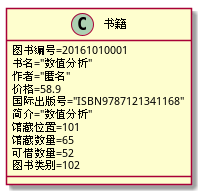
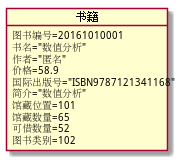
实验三

diff --git a/test3/README.md b/test3/README.md
@@ -120,7 +120,7 @@ package operation #BCEE68 {
 * 源码如下：
 ```puml
 @startuml
-class 学生<extends 人物>{
+object 学生{
     姓名="陈尘沉"
     用户名="tyh"
     密码="aaa321"
@@ -138,7 +138,7 @@ class 学生<extends 人物>{
 * 源码如下：
 ```puml
 @startuml
-class 图书管理员<extends 人物>{
+object 图书管理员{
     姓名="李二"
     用户名="lier"
     密码="aaa321"
@@ -157,7 +157,7 @@ class 图书管理员<extends 人物>{
 * 源码如下：
 ```puml
 @startuml
-class 超级管理员{
+object 超级管理员{
      ID=101
      姓名="李四"
      用户名="lisi"
@@ -176,7 +176,7 @@ class 超级管理员{
 * 源码如下：
 ```puml
 @startuml
-class 书籍{
+object 书籍{
     图书编号=20161010001
     书名="数值分析"
     作者="匿名"
@@ -198,7 +198,7 @@ class 书籍{
 * 源码如下：
 ```puml
 @startuml
-class 图书种类{
+object 图书种类{
     类别编号=1002
     类别名称="数学类"
     类别描述="数学类图书"
@@ -213,12 +213,10 @@ class 图书种类{
 * 源码如下：
 ```puml
 @startuml
-
-class 馆藏{
+object 馆藏{
     馆藏编号=101
     地点="一楼阅览室K架"
  }
-
 @enduml
 ```
 * 对象图如下：
@@ -232,8 +230,7 @@ class 馆藏{
 * 源码如下：
 ```puml
 @startuml
-
-class 借阅图书{
+object 借阅图书{
     借阅编号=10000001
     借阅人=20164112
     借阅书籍编号==20161010001
@@ -241,7 +238,6 @@ class 借阅图书{
     应还日期="2019-04-15"
     还书日期="1970-01-01"
  }
-
 @enduml
 ```
 * 对象图如下：
@@ -252,7 +248,7 @@ class 借阅图书{
 * 源码如下：
 ```puml
 @startuml
-class 预定图书{
+object 预定图书{
     预定编号=10414111
     预定人=20164112
     预定图书=20161010001
@@ -268,7 +264,7 @@ class 预定图书{
 * 源码如下：
 ```puml
 @startuml
-class 逾期记录{
+object 逾期记录{
     逾期编号=10110105
     逾期人=20164112
     逾期书籍=20161010001
